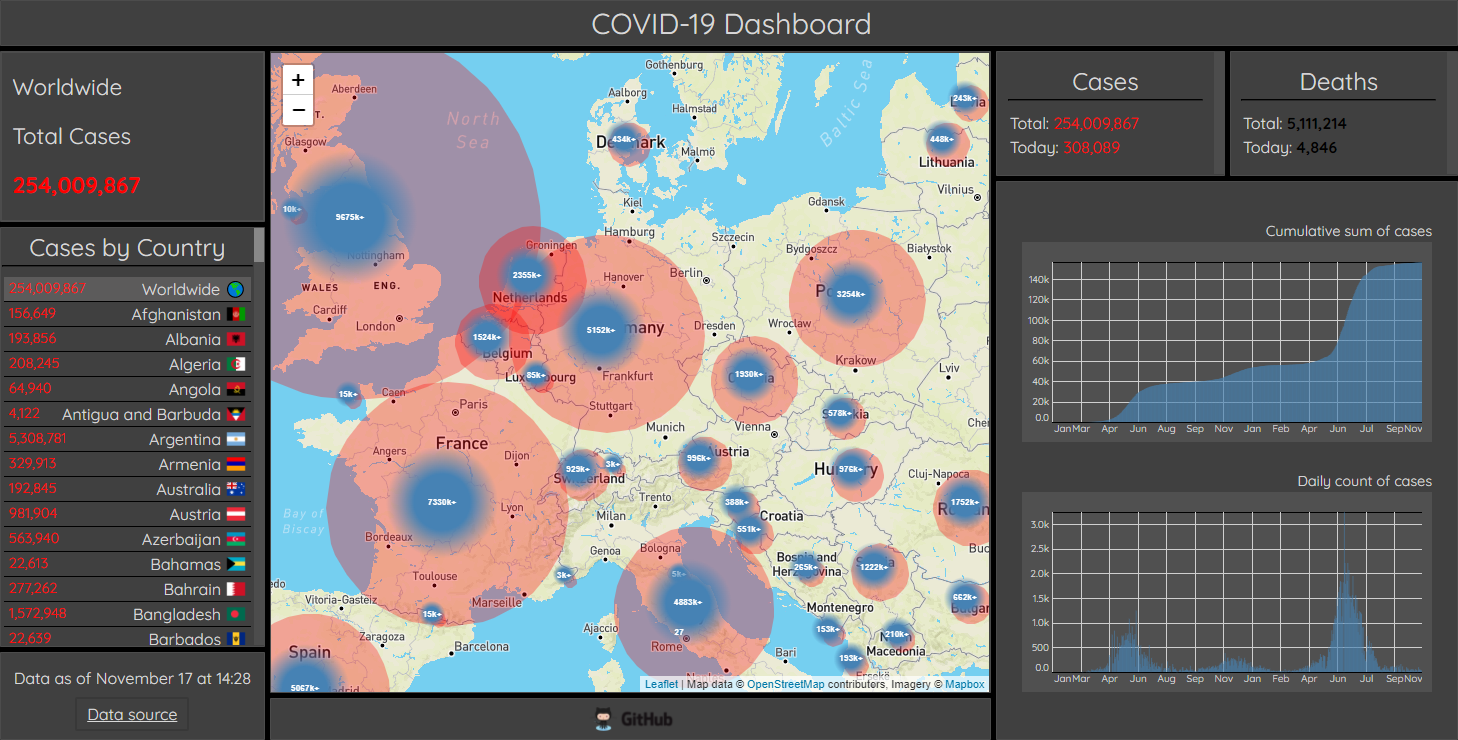
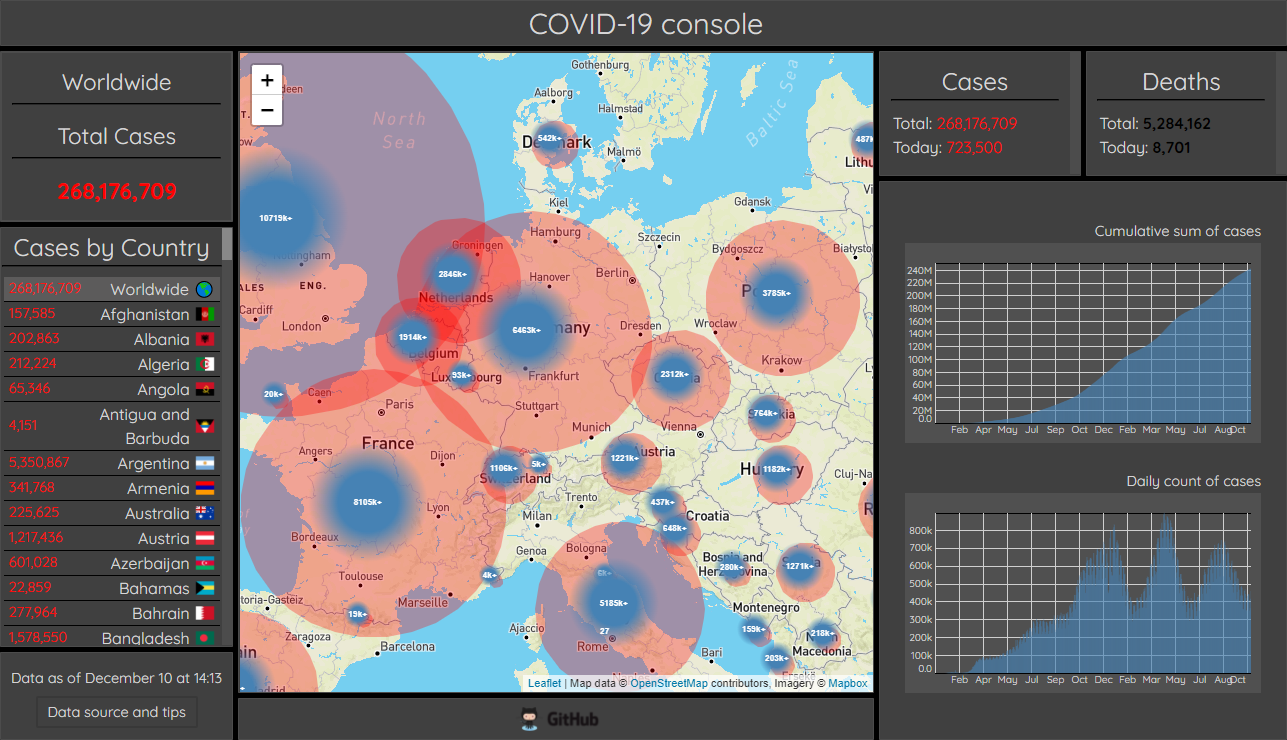
fix(chart): adjust padding

diff --git a/src/components/chart/chart-component.js b/src/components/chart/chart-component.js
@@ -13,41 +13,8 @@ const Chart = (countyName) => {
   const newCountry = countyName.toLowerCase();
   const charts = document.querySelector('.charts');
 
-  const openFirstTab = () => {
-    console.log('first');
-    return;
-    const tabName = 'first-chart-tab';
-    const chartTabs = document.querySelector('chart-tabs');
-    for (let i = 0; i < chartTabs.length; i++) {
-      chartTabs[i].style.display = 'none';
-    }
-    document.getElementById(tabName).style.display = 'block';
-  };
-
-  const openSecondTab = () => {
-    console.log('second');
-    return;
-    const tabName = 'second-chart-tab';
-    const chartTabs = document.querySelector('chart-tabs');
-    for (let i = 0; i < chartTabs.length; i++) {
-      chartTabs[i].style.display = 'none';
-    }
-    document.getElementById(tabName).style.display = 'block';
-  };
-
-  charts.innerHTML = `
-  <div class="chart-bar">
-    <button>First chart tab</button>
-    <button>Second chart tab</button>
-  </div>
-  
-  <div class="chart-tabs">
-    <div class="chart-tab" id="first-chart-tab">
-      <div class="sum-chart"></div>
-      <div class="daily-chart"></div>
-    </div>
-    <div class="chart-tab" id="second-chart-tab" style="display: none;"></div>
-  </div>`;
+  charts.innerHTML = `<div class="sum-chart"></div>
+      <div class="daily-chart"></div>`;
 
   if (countyName === 'total') {
     const defaultSumData = defaultData.map((d) => {

diff --git a/src/components/chart/chart.styles.scss b/src/components/chart/chart.styles.scss
@@ -6,32 +6,15 @@ $primary-light-p: black;
 .charts {
   font-size: 10px;
   grid-area: charts;
-  padding: 0;
+  padding: 25px;
+
   display: flex;
   flex-grow: 2;
   flex-direction: column;
   justify-content: flex-start;
   align-items: flex-start;
-  .chart-bar {
-    display: none;
-    background-color: $primary-light;
-    color: $primary-light-p;
-    width: 100%;
-    margin: 0;
-    padding: 3px;
-    button {
-      color: $primary-light-p;
-      padding: 3px;
-      margin: 0 4px;
-      min-width: 60px;
-      text-align: center;
-    }
-  }
-  .chart-tabs {
-    margin: 0 25px;
     .sum-chart,
     .daily-chart {
-      margin: 0;
-    }
-  }
+      display: flex;
+      flex-direction: column;    }
 }

diff --git a/README.md b/README.md
@@ -6,7 +6,7 @@ Project-based course focusing on best practices (MVC pattern, Airbnb style, Conv
   
 - App-interface
   
-![COVID-19 Dashboard](covid-console/src/assets/screen-capture.png "COVID-19 Dashboard interface")
+![COVID-19 Dashboard](src/assets/app-interface.png "COVID-19 Dashboard interface")
 
 Technologies:
 - Model-View-Controller pattern
